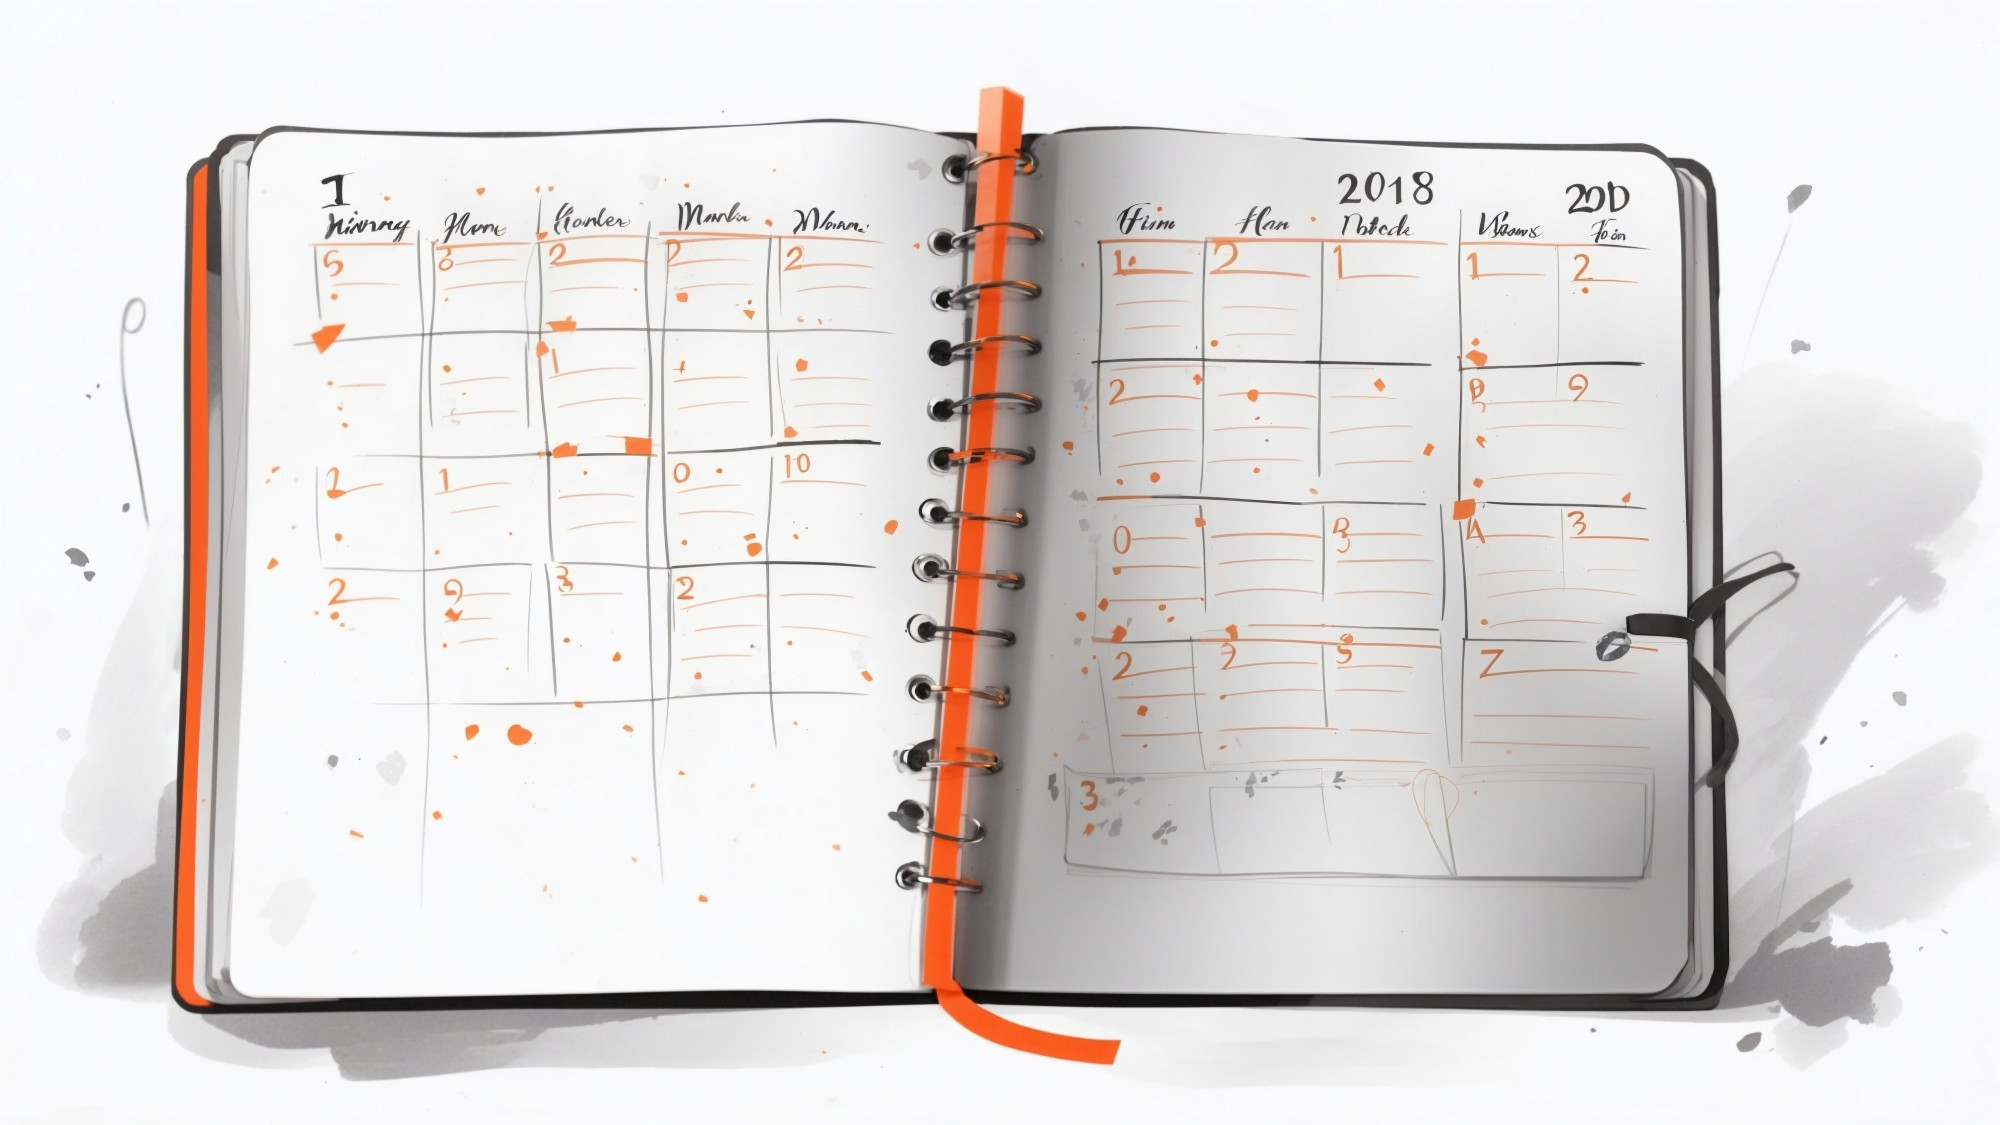
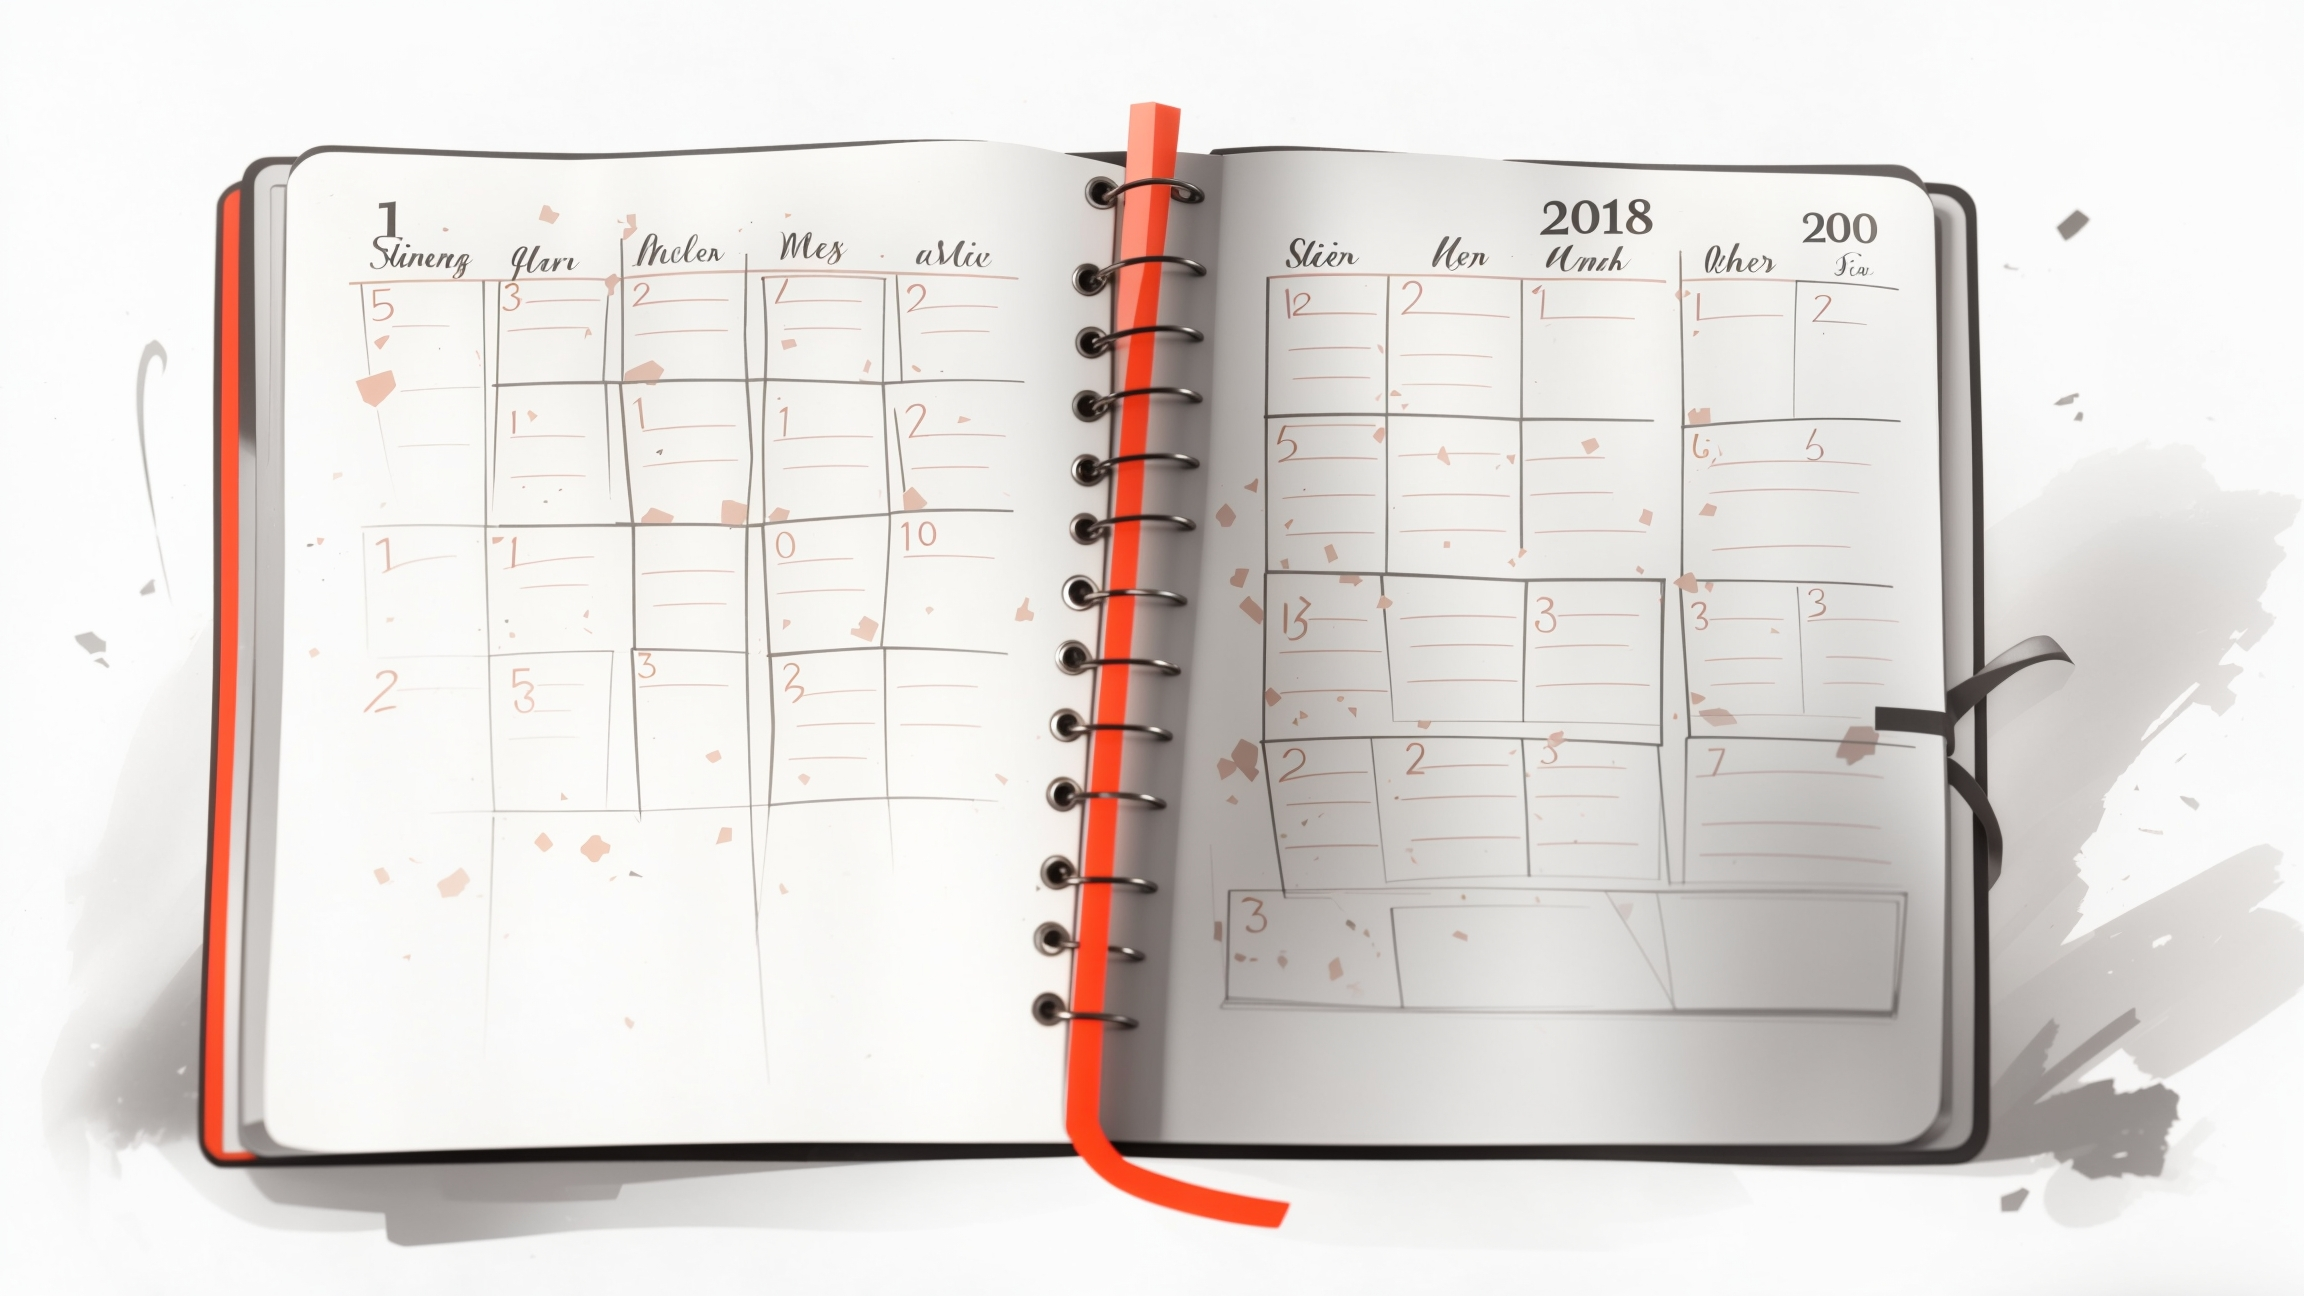
homepage responsive + vercel config file

diff --git a/client/src/pages/HomePage.js b/client/src/pages/HomePage.js
@@ -13,10 +13,29 @@ import LogInMyAreaBtn from "../components/Session/LogInMyAreaBtn"
 import styles from "./HomePage.module.css"
 import { AuthContext } from '../contextsAndHooks/authContext';
 import { useNavigate, Link } from 'react-router-dom';
-import useDeviceType from '../contextsAndHooks/useDeviceType'
+import useDeviceType from '../contextsAndHooks/useDeviceType';
+import screenshotApp from '../assets/screnshootAppLong.png';
 
 function HomePage() {
     const { isDesktop } = useDeviceType();
+
+
+    // Scroll to feature when 'explore btn' (.largeButton) is pressed
+
+    // const scrollToContent = () => {
+    //     secondViewRef.current.scrollIntoView({ behavior: 'smooth', block: 'start' });
+    // }
+
+    // State and handler for 'more btn' (.smallButton)
+    const [isLargeButtonClicked, setisLargeButtonClicked] = useState(false);
+    const secondViewRef = useRef();
+    const largeButtonHandler = () => {
+        setisLargeButtonClicked(isLargeButtonClicked === 'false' ? 'true' : 'true');
+
+        setTimeout(() => {
+            secondViewRef.current.scrollIntoView({ behavior: 'smooth', block: 'start' });
+        }, 320); // Adjust the delay as needed
+    };
 
     // State and handler for 'more btn' (.smallButton)
     const [isThirdViewOn, setisThirdViewOn] = useState(false);
@@ -26,17 +45,13 @@ function HomePage() {
 
         setTimeout(() => {
             thirdViewRef.current.scrollIntoView({ behavior: 'smooth', block: 'start' });
-        }, 10); // Adjust the delay as needed
+        }, 320); // Adjust the delay as needed
     };
 
 
 
 
-    // Scroll to feature when 'explore btn' (.largeButton) is pressed
-    const secondViewRef = useRef();
-    const scrollToContent = () => {
-        secondViewRef.current.scrollIntoView({ behavior: 'smooth', block: 'start' });
-    }
+
 
     // this code 'protects' the homepage from authenticaded users (better for them to skip it and go straigh to the application itself)
     const { user, loadingAuthCheck } = useContext(AuthContext);
@@ -54,7 +69,7 @@ function HomePage() {
         <div className={styles.wrapper}>
             <LogInMyAreaBtn />
             <div className={styles.landingView}>
-                <button className={styles.largeButton} onClick={scrollToContent}>Explore</button>
+                <button className={`${styles.largeButton} ${isLargeButtonClicked ? styles.buttonClicked : ''}`} onClick={largeButtonHandler}>Explore</button>
             </div>
 
             <div className={styles.secondView} ref={secondViewRef}>
@@ -93,7 +108,27 @@ function HomePage() {
                 </div >
             </div>
 
-            <button className={styles.smallButton} onClick={smallButtonHandler} >more</button>
+            {/* Will only be rendered in mobile */}
+            {!isDesktop ?
+                <div className={styles.mobileView}>
+                    <div className={styles.separator} />
+                    <div className={styles.sorryMessage}>
+                        <p>We are sorry, at the moment our <span className={styles.highLighted}>Life Calendar</span> is not available on mobile devices</p>
+                        <p>Save the link, and <span className={styles.highLighted}>come back soon with your laptop :)</span></p>
+                        <p><span className={styles.highLighted}>Spoiler</span>. Here's a zoomed in screenshot of the app</p>
+                        <img src={screenshotApp} alt="screenshot of the web-app"></img>
+                    </div>
+                </div> : null}
+
+
+            {/* From here untill the end, will only be rendered in desktops */}
+            <button
+                className={`${styles.smallButton} ${isThirdViewOn ? styles.buttonClicked : ''}`}
+                onClick={smallButtonHandler}
+            >
+                more
+            </button>
+
 
             <div className={styles.thirdView} ref={thirdViewRef}>
                 {isThirdViewOn ? <div>

diff --git a/client/src/pages/HomePage.module.css b/client/src/pages/HomePage.module.css
@@ -9,7 +9,7 @@
 .landingView {
     width: 100vw;
     height: 100vh;
-    background: url('.././assets/mainImageLarge.jpg');
+    background: url('.././assets/mainImage.jpg');
     background-size: cover;
     background-repeat: no-repeat;
     align-items: center;
@@ -57,12 +57,15 @@
 *
 * */
 
+
+
 .secondView {
     display: flex;
     justify-content: center;
     align-items: center;
     flex-direction: column;
     height: 100vh;
+    padding: 0 5%;
 }
 
 /* weeks styles */
@@ -122,9 +125,10 @@
 /* smallButton */
 
 .smallButton {
-    background: transparent;
+    background-color: #ff8e4d;
     border: 0.5px solid #ff8e4d;
-    color: #ff8e4d;
+    color: white;
+    border-radius: 20px;
     padding: 6px 40px;
     cursor: pointer;
     text-decoration: none;
@@ -136,14 +140,20 @@
     margin-bottom: 100px;
 }
 
-.smallButton:not(:disabled):hover {
-    background-color: #ff8e4d;
-    border-color: #ff8e4d;
-    color: white;
-    border-radius: 20px;
+.smallButton:hover {
+    background: transparent;
+    border: 0.5px solid #ff8e4d;
+    color: #ff8e4d;
+    border-radius: 0px;
 }
 
+.buttonClicked,
+.buttonClicked:hover {
+    opacity: 0;
+    visibility: hidden;
+    transition: opacity 0.3s ease, visibility 0.3s ease;
 
+}
 
 /* third view styles styles */
 
@@ -204,40 +214,95 @@
 }
 
 @media screen and (max-width: 1100px) {
+    .mobileView {
+        padding: 0 5%;
+    }
+
+    .secondView {
+        height: 100vh;
+        width: auto;
+    }
+
+    /* In mobile, 'the second view' is only the .text class */
+    .text {
+        height: auto;
+        display: flex;
+        flex-direction: column;
+        justify-content: space-evenly;
+    }
+
+    .text p {
+        font-size: 26px;
+        line-height: 1.6
+    }
+
+    .text p:nth-child(1) {
+        margin-bottom: 50px;
+    }
+
+    .separator {
+        margin-bottom: 75px;
+        margin-top: 75px;
+    }
+
+    .separator:last-child {
+        margin-bottom: 75px;
+        margin-top: 0px;
+    }
+
+    /* In mobile, 'the third view' is only the .weeksWrapper class */
     .weeksWrapper {
         flex-direction: column;
-        height: 100vh;
-        border: 2px solid blue
+        height: auto;
     }
 
     .weeksWrapper>section {
-        width: auto;
+        margin-bottom: 50px;
+    }
+
+    .weeksWrapper>:last-child {
+        margin-bottom: 0px;
+    }
+
+    .weeksWrapper p {
+        font-size: 20px;
+    }
+
+    .weeks {
+        margin-bottom: 10px;
+        height: auto;
     }
 
     .smallButton {
         display: none
     }
 
-    .secondView {
-        height: auto;
-    }
-
-    .text {
+    /* mobile exclusive section */
+    .sorryMessage {
+        margin-bottom: 100px;
         height: 100vh;
-        border: 2px solid green
     }
 
-    .text p {
-        border: 2px solid red
+    .sorryMessage p {
+        margin-bottom: 50px;
+        font-family: inherit;
+        font-weight: 100;
+        font-size: 26px;
+        line-height: 1.6;
+        /* display: flex;
+        align-items: center;
+        justify-content: center;
+        flex-direction: column; */
     }
 
-    .separator {
+    .sorryMessage img {
+        max-width: 350px;
+    }
+
+    .landingView {
         width: 100%;
-        height: 1px;
-        background: linear-gradient(90deg, transparent, rgb(119, 119, 119), transparent);
-        margin-bottom: 0px;
-        margin-top: 0px;
     }
+
 }
 
 /* Adjust the background image position for smaller screens */

diff --git a/client/src/pages/AppPage.js b/client/src/pages/AppPage.js
@@ -13,11 +13,14 @@ import LogInMyAreaBtn from "../components/Session/LogInMyAreaBtn";
 import styles from "./AppPage.module.css";
 import { AuthContext } from '../contextsAndHooks/authContext';
 import questionIcon from '../assets/icons/others/interrogation.png'
+import useDeviceType from '../contextsAndHooks/useDeviceType';
 
 function AppPage() {
     const { setUser } = useContext(AuthContext);
     const navigate = useNavigate();
     const [displayTutorial, setDisplayTutorial] = useState(null);
+
+    const { isDesktop } = useDeviceType();
 
     // Protects this page from non-authenticated users. Redirecting those non-identified to /login (AuthPage.js)
     // Can't use the user state (and instead a new check is done) because most of the times this page is reached from succesful Google Auth BUT there isn't a chance to update user state before users hit this page so it's done now even if redundant)

diff --git a/server/server.js b/server/server.js
@@ -7,6 +7,7 @@ const authRoutes = require('./authRoutes');
 const dbRoutes = require('./dbRoutes');
 const cookieParser = require('cookie-parser');
 const bodyParser = require('body-parser');
+require('dotenv').config();
 app.use(cookieParser());
 
 // Use cors
@@ -26,8 +27,10 @@ app.use('/db', dbRoutes);
 
 
 /*Connects to Mongodb*/
-//local. This will need to be changed in production
+
 const dbUrl = 'mongodb://127.0.0.1:27017/boxesProjectLocal';
+//const dbUrl = process.env.MONGODB_URL;
+
 mongoose.connect(dbUrl)
     .then(() => {
         console.error('mongo connection open')
